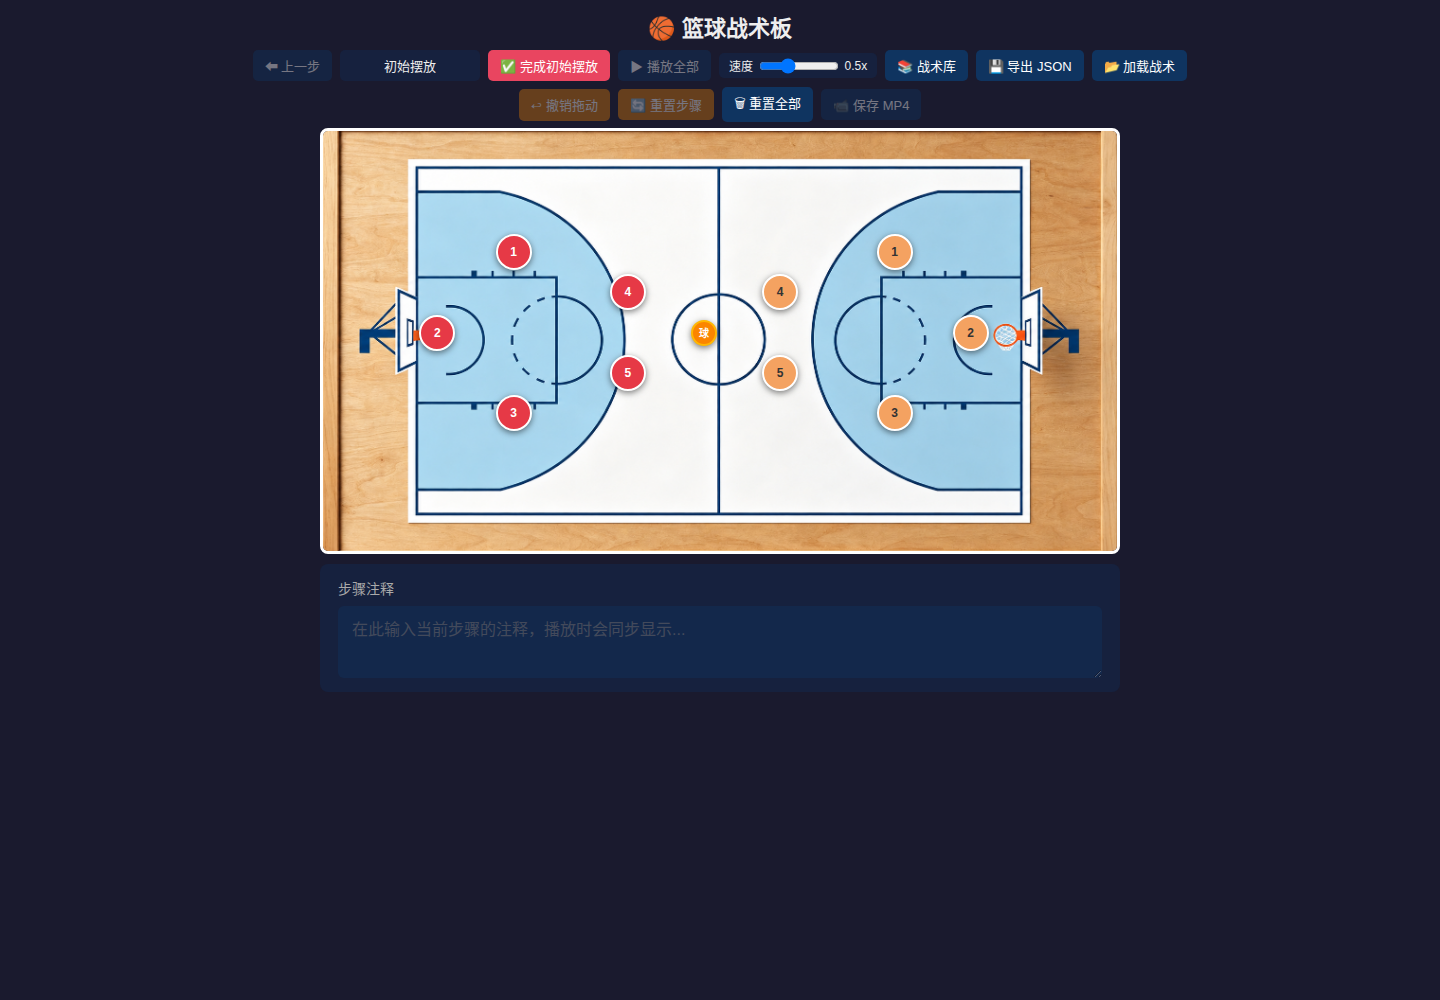
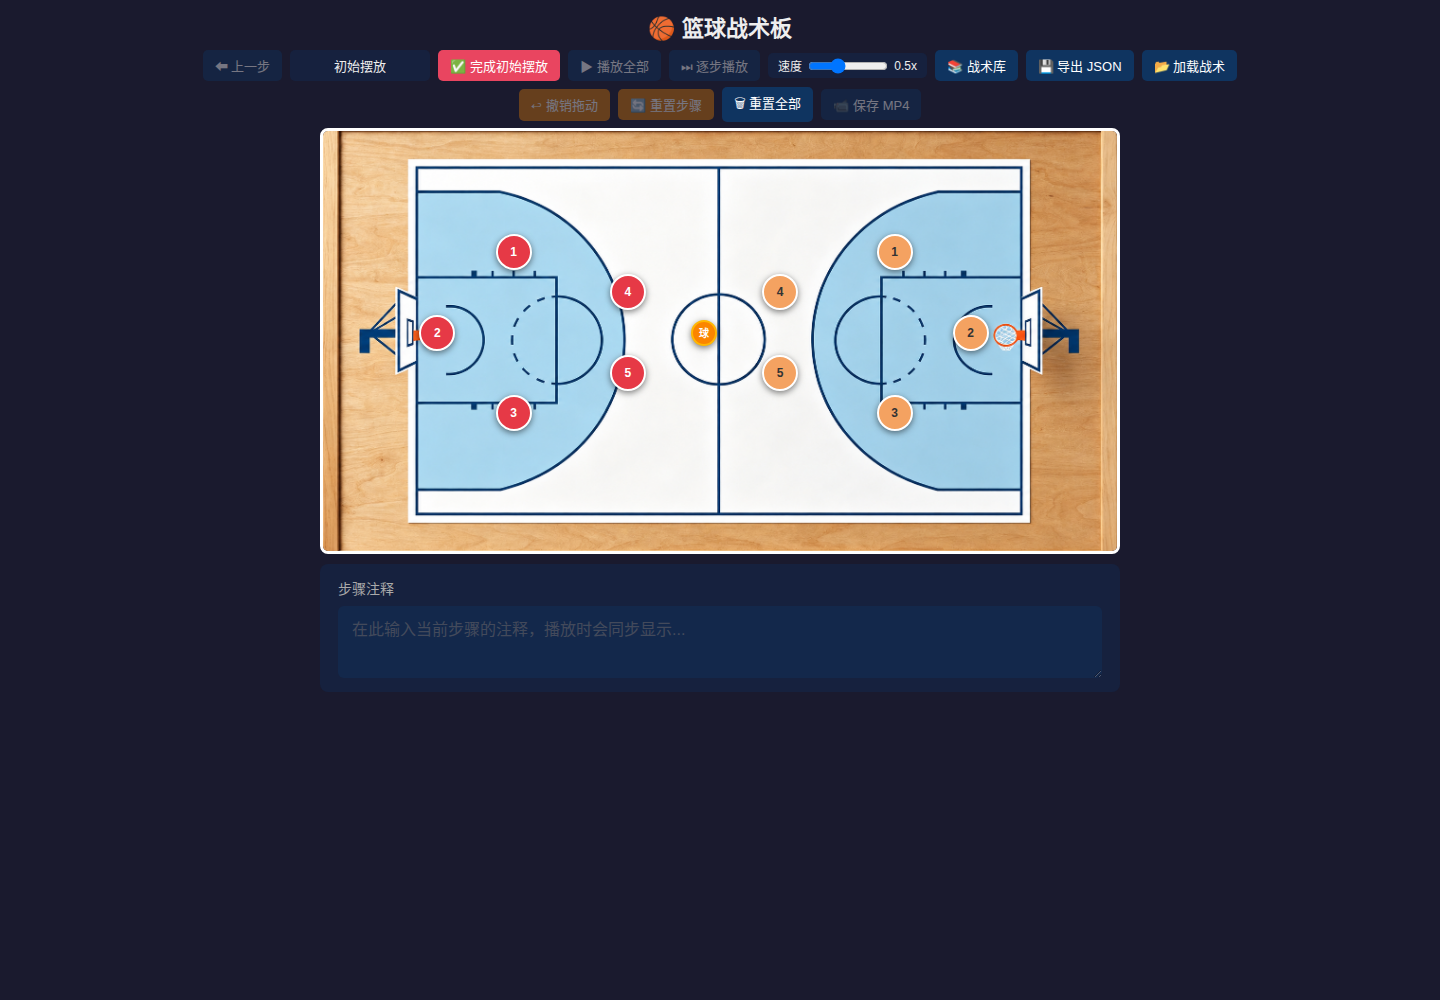
feat: add step-by-step playback

Changed region(s): [[0.1562, 0.031, 0.875, 0.093]]

diff --git a/index.html b/index.html
@@ -339,6 +339,7 @@ h1 { margin-bottom: 8px; font-size: 22px; }
   <span class="step-info" id="step-info">初始摆放</span>
   <button id="btn-finish" class="primary" onclick="finishStep()">✅ 完成步骤</button>
   <button id="btn-play" onclick="togglePlayback()">▶ 播放全部</button>
+  <button id="btn-play-step" onclick="toggleStepPlayback()">⏭ 逐步播放：第 1 步</button>
   <label class="speed-label">
     速度
     <input type="range" id="speed-slider" min="0.25" max="1" step="0.25" value="0.5" oninput="updateSpeed(this.value)">
@@ -431,6 +432,8 @@ let playbackRAF = null;
 let playbackWaitResolve = null;
 let playbackStopRequested = false;
 let isRecordingPlayback = false;
+let playbackMode = null;
+let stepPlaybackCursor = 0;
 let playSpeed = 0.5;
 let currentLocalTacticId = null;
 let presetTactics = [];
@@ -448,6 +451,7 @@ const annoInput = document.getElementById('annotation-text');
 annoInput.addEventListener('input', function() {
   if (currentStep >= 0 && steps[currentStep]) {
     steps[currentStep].annotation = this.value;
+    stepPlaybackCursor = 0;
   }
 });
 
@@ -483,6 +487,8 @@ function init() {
   playbackWaitResolve = null;
   playbackStopRequested = false;
   isRecordingPlayback = false;
+  playbackMode = null;
+  stepPlaybackCursor = 0;
   renderPieces();
   updateUI();
 }
@@ -658,6 +664,7 @@ function onUp(e) {
       if (!steps[currentStep]) steps[currentStep] = { moves: [], annotation: '' };
       steps[currentStep].moves.push(activeMove);
     }
+    stepPlaybackCursor = 0;
   }
   dragIdx = -1;
   activeMove = null;
@@ -674,6 +681,7 @@ function updateUI() {
   const btnResetStep = document.getElementById('btn-reset-step');
   const btnFinish = document.getElementById('btn-finish');
   const btnPlay = document.getElementById('btn-play');
+  const btnPlayStep = document.getElementById('btn-play-step');
   const btnRecord = document.getElementById('btn-record');
   const btnResetAll = document.getElementById('btn-reset-all');
   const btnLibrary = document.getElementById('btn-library');
@@ -681,10 +689,17 @@ function updateUI() {
 
   if (isPlaying) {
     stepInfo.textContent = isRecordingPlayback ? '录制中…' : '播放中…';
-    [btnPrev, btnUndo, btnResetStep, btnFinish, btnRecord, btnResetAll, btnLibrary].forEach(b => b.disabled = true);
-    btnPlay.disabled = false;
-    btnPlay.textContent = '⏹ 停止播放';
-    btnPlay.classList.add('warn');
+    [btnPrev, btnUndo, btnResetStep, btnFinish, btnPlay, btnPlayStep, btnRecord, btnResetAll, btnLibrary]
+      .forEach(b => b.disabled = true);
+    if (playbackMode === 'step') {
+      btnPlayStep.disabled = false;
+      btnPlayStep.textContent = '⏹ 停止播放';
+      btnPlayStep.classList.add('warn');
+    } else {
+      btnPlay.disabled = false;
+      btnPlay.textContent = '⏹ 停止播放';
+      btnPlay.classList.add('warn');
+    }
     slider.disabled = false;
     annoInput.disabled = true;
     return;
@@ -696,6 +711,12 @@ function updateUI() {
   btnPlay.disabled = playableStepCount < 1;
   btnPlay.textContent = '▶ 播放全部';
   btnPlay.classList.remove('warn');
+  if (stepPlaybackCursor >= playableStepCount) stepPlaybackCursor = 0;
+  btnPlayStep.disabled = playableStepCount < 1;
+  btnPlayStep.textContent = playableStepCount > 0
+    ? `⏭ 逐步播放：第 ${stepPlaybackCursor + 1} 步`
+    : '⏭ 逐步播放';
+  btnPlayStep.classList.remove('warn');
   btnRecord.disabled = playableStepCount < 1 || isFileProtocol;
   btnRecord.title = (isFileProtocol && playableStepCount >= 1)
     ? '通过本地文件(file://)打开时无法录制视频，请通过 HTTP 服务器访问（如 python3 -m http.server）'
@@ -739,6 +760,7 @@ function finishStep() {
     steps.push({ moves: [], annotation: '' });
     currentStep++;
   }
+  stepPlaybackCursor = 0;
   renderPieces();
   updateUI();
 }
@@ -746,6 +768,7 @@ function finishStep() {
 function goPrev() {
   if (isPlaying || activeMove || currentStep < 0) return;
   currentStep--;
+  stepPlaybackCursor = Math.max(0, currentStep);
   renderPieces();
   updateUI();
 }
@@ -756,12 +779,14 @@ function undoMove() {
   if (activeMove) {
     activeMove = null;
     dragIdx = -1;
+    stepPlaybackCursor = 0;
     renderPieces();
     updateUI();
     return;
   }
   if (currentStep >= 0 && steps[currentStep] && steps[currentStep].moves.length) {
     steps[currentStep].moves.pop();
+    stepPlaybackCursor = 0;
     renderPieces();
     updateUI();
   }
@@ -772,6 +797,7 @@ function resetStep() {
   if (currentStep < 0) return;
   if (!confirm('确定重置当前步骤的所有拖动吗？')) return;
   steps[currentStep] = { moves: [], annotation: steps[currentStep].annotation || '' };
+  stepPlaybackCursor = 0;
   renderPieces();
   updateUI();
 }
@@ -968,6 +994,17 @@ function togglePlayback() {
   else playAll(false);
 }
 
+function toggleStepPlayback() {
+  if (isPlaying) {
+    stopPlayback();
+    return;
+  }
+  const playbackSteps = getPlaybackSteps();
+  if (!playbackSteps.length) return;
+  if (stepPlaybackCursor >= playbackSteps.length) stepPlaybackCursor = 0;
+  playAll(false, stepPlaybackCursor);
+}
+
 function stopPlayback() {
   if (!isPlaying || playbackStopRequested) return;
   playbackStopRequested = true;
@@ -1013,11 +1050,16 @@ function runPlaybackSegment(baseDurationMs, onProgress) {
   });
 }
 
-async function playAll(shouldRecord = false) {
+async function playAll(shouldRecord = false, singleStepIndex = null) {
   const playbackSteps = getPlaybackSteps();
   if (isPlaying || playbackSteps.length < 1) return;
+  const isSingleStep = Number.isInteger(singleStepIndex);
+  if (isSingleStep && (singleStepIndex < 0 || singleStepIndex >= playbackSteps.length)) return;
+  const firstPlaybackStep = isSingleStep ? singleStepIndex : 0;
+  const lastPlaybackStep = isSingleStep ? singleStepIndex + 1 : playbackSteps.length;
   isPlaying = true;
   isRecordingPlayback = shouldRecord;
+  playbackMode = isSingleStep ? 'step' : (shouldRecord ? 'record' : 'all');
   playbackStopRequested = false;
   updateUI();
 
@@ -1095,7 +1137,10 @@ async function playAll(shouldRecord = false) {
     }
 
     let base = clonePositions(setupPositions);
-    for (let s = 0; s < playbackSteps.length && !playbackStopRequested; s++) {
+    for (let s = 0; s < firstPlaybackStep; s++) {
+      base = applyStepMoves(base, playbackSteps[s]);
+    }
+    for (let s = firstPlaybackStep; s < lastPlaybackStep && !playbackStopRequested; s++) {
       stepInfo.textContent = `${isRecordingPlayback ? '录制' : '播放'}步骤 ${s + 1} / ${playbackSteps.length}`;
       const step = playbackSteps[s];
       const startPos = clonePositions(base);
@@ -1148,10 +1193,15 @@ async function playAll(shouldRecord = false) {
       if (!stepCompleted) break;
 
       base = endPos;
-      if (s < playbackSteps.length - 1) {
+      if (!isSingleStep && s < lastPlaybackStep - 1) {
         const holdCompleted = await runPlaybackSegment(STEP_HOLD_MS, () => {});
         if (!holdCompleted) break;
       }
+    }
+
+    if (isSingleStep && !playbackStopRequested) {
+      currentStep = firstPlaybackStep;
+      stepPlaybackCursor = lastPlaybackStep >= playbackSteps.length ? 0 : lastPlaybackStep;
     }
 
     if (recorder) {
@@ -1218,6 +1268,8 @@ async function playAll(shouldRecord = false) {
     isPlaying = false;
     isRecordingPlayback = false;
     playbackStopRequested = false;
+    playbackMode = null;
+    renderPieces();
     updateUI();
   }
 }
@@ -1418,6 +1470,8 @@ function finishApplyingTactic() {
   activeMove = null;
   dragIdx = -1;
   isPlaying = false;
+  playbackMode = null;
+  stepPlaybackCursor = 0;
   if (playbackRAF) cancelAnimationFrame(playbackRAF);
   renderPieces();
   updateUI();

diff --git a/service-worker.js b/service-worker.js
@@ -1,4 +1,4 @@
-const CACHE_NAME = 'basketball-tactics-v6';
+const CACHE_NAME = 'basketball-tactics-v7';
 const RUNTIME_CACHE_NAME = 'basketball-tactics-runtime-v1';
 const urlsToCache = [
   './',

diff --git a/USER_GUIDE.md b/USER_GUIDE.md
@@ -51,7 +51,7 @@
 - **上一步**：返回前一个步骤；从步骤 1 再返回一次会回到初始摆放。
 - **重置全部**：清空初始摆放、所有步骤和注释，恢复新战术状态；操作前会要求确认。
 
-## 3. 播放、调速和停止
+## 3. 连续播放、逐步播放、调速和停止
 
 只要至少有一个步骤包含移动或注释，**播放全部** 就会变为可用。
 
@@ -61,7 +61,21 @@
 4. 播放时按钮会变成 **停止播放**；点击它可以随时中断并回到编辑界面。
 5. 有步骤注释时，播放画面会同步显示字幕。
 
-![正在播放的实际界面](docs/assets/user-guide/playback-running.png)
+![“播放全部”正在运行的实际界面](docs/assets/user-guide/playback-running.png)
+
+### 逐步讲解
+
+如果希望边讲边控制进度，使用 **逐步播放：第 1 步** 按钮：
+
+1. 第一次点击只播放第 1 步，播放结束后停住。
+2. 按钮随后变为 **逐步播放：第 2 步**；再次点击只播放第 2 步。
+3. 依次播放完最后一步后，按钮重新回到 **逐步播放：第 1 步**。
+4. 单步播放过程中，按钮会变成 **停止播放**，可以随时中断。
+5. 单步播放同样支持在播放过程中实时调速。
+
+如果中途修改了站位、轨迹或注释，逐步播放会从第 1 步重新开始，以免沿用已经失效的播放位置。
+
+![逐步播放正在运行的实际界面](docs/assets/user-guide/playback-step-running.png)
 
 停止播放只会停止本次演示，不会删除已画的步骤。
 
@@ -188,7 +202,8 @@
 | 上一步 | 回到前一个步骤或初始摆放 | 回去修改后继续新增步骤可能截断后续步骤 |
 | 完成初始摆放 | 固定起始站位并进入步骤 1 | 之后的拖动会成为跑位轨迹 |
 | 完成步骤 | 保存当前步骤并新建下一步 | 末尾未编辑的空步骤不会播放；中间空步骤会形成停留画面 |
-| 播放全部 / 停止播放 | 开始或随时中断战术播放 | 停止不会删除步骤 |
+| 播放全部 / 停止播放 | 连续播放或随时中断整个战术 | 停止不会删除步骤 |
+| 逐步播放：第 N 步 / 停止播放 | 每次只播放一步，下一次点击继续下一步 | 播完最后一步后回到第 1 步 |
 | 速度 | 调整播放和录制速度 | 播放过程中也能调整 |
 | 战术库 | 打开公开模板和本机战术 | 播放期间不能打开 |
 | 导出 JSON | 下载当前战术文件 | 适合作为备份和分享 |

diff --git a/README.md b/README.md
@@ -11,7 +11,7 @@
 - 5 名红队球员、5 名黄队球员和 1 个篮球
 - 初始站位、多步骤跑位、轨迹与步骤注释
 - 战术库：仓库公开模板，以及保存到浏览器和用户指定文件夹的自定义战术
-- 播放中实时调速、随时停止、撤销与分级重置
+- 连续播放与逐步播放、播放中实时调速、随时停止、撤销与分级重置
 - 战术 JSON 导入/导出
 - 浏览器视频录制；统一保存 MP4，不支持原生 MP4 时自动在浏览器内转为 H.264 MP4
 - PWA 安装和离线使用
